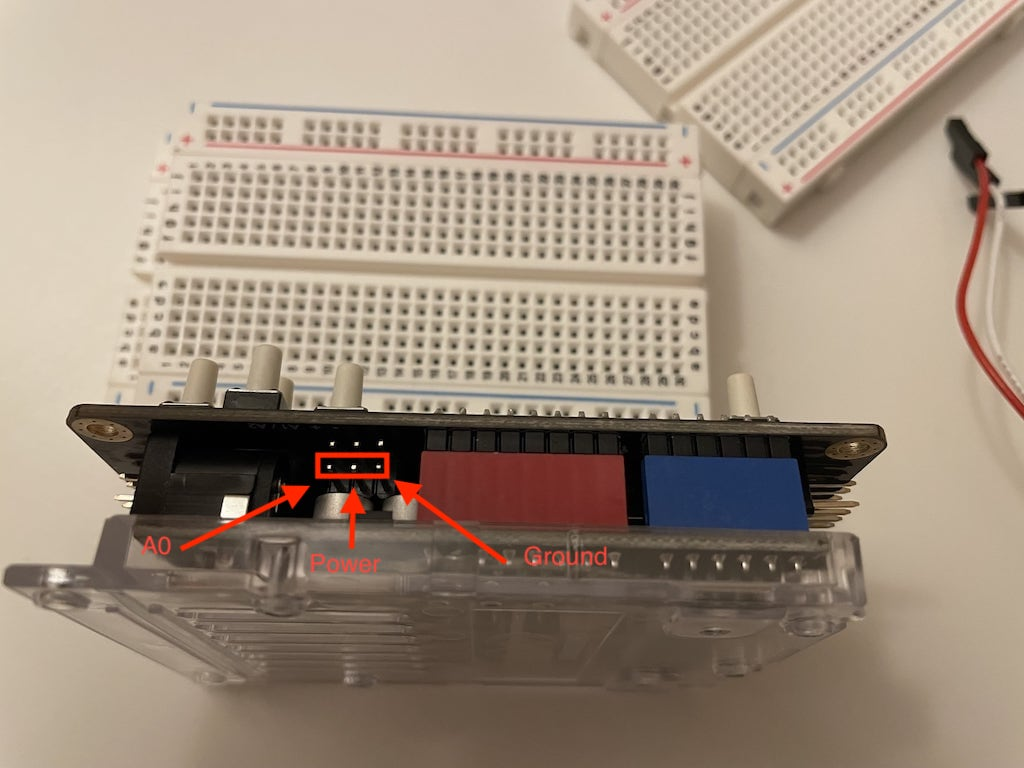
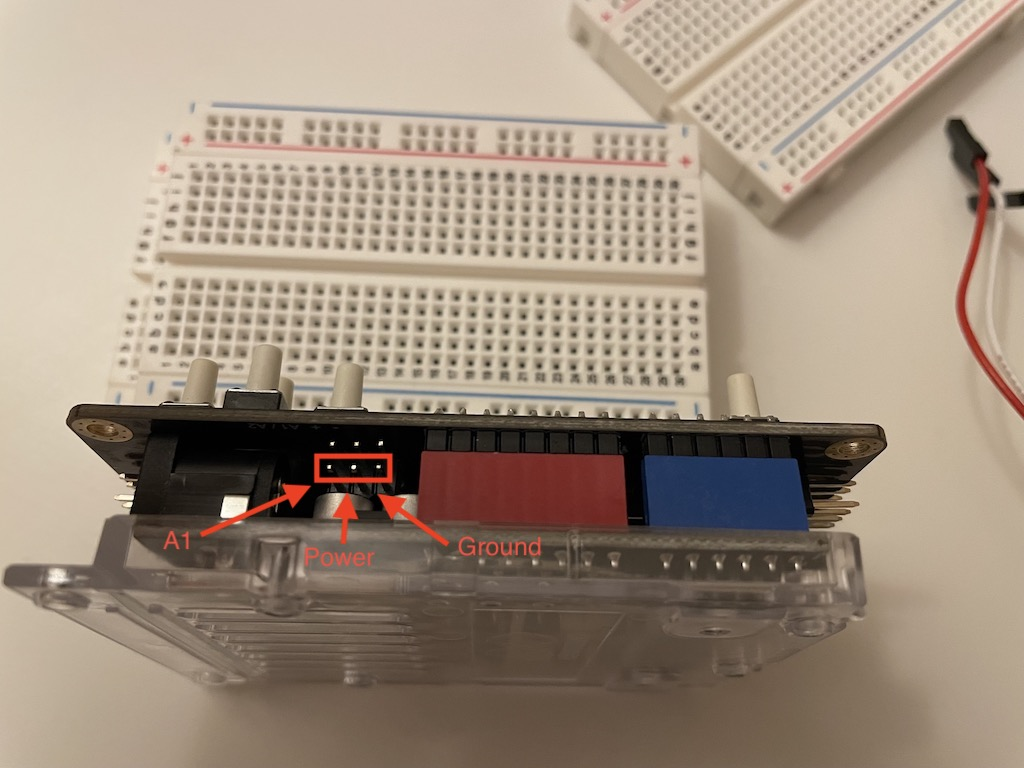
Fix typo: A0 should be A1

Changed region(s): [[0.2188, 0.5625, 0.5938, 0.75], [0.125, 0.6875, 0.2188, 0.7188]]

diff --git a/programming/_posts/2023-09-29-maneki-neko-wave-counter.md b/programming/_posts/2023-09-29-maneki-neko-wave-counter.md
@@ -56,7 +56,7 @@ The Sharp IR Sensor has three pins:
 ![Sharp IR Sensor to Arduino wiring](/images/lcd-shield.jpeg)
 
 To connect the Sharp IR sensor to the Arduino, we need to connect the wires to the DF
-Robot LCD Shield which exposes multiple pins for sensors. We will use the A0 pin, but
+Robot LCD Shield which exposes multiple pins for sensors. We will use the A1 pin, but
 you can also use other analog pins.
 
 ![Sharp IR Sensor to Arduino wiring side view](/images/lcd-shield-side-view.jpeg)
